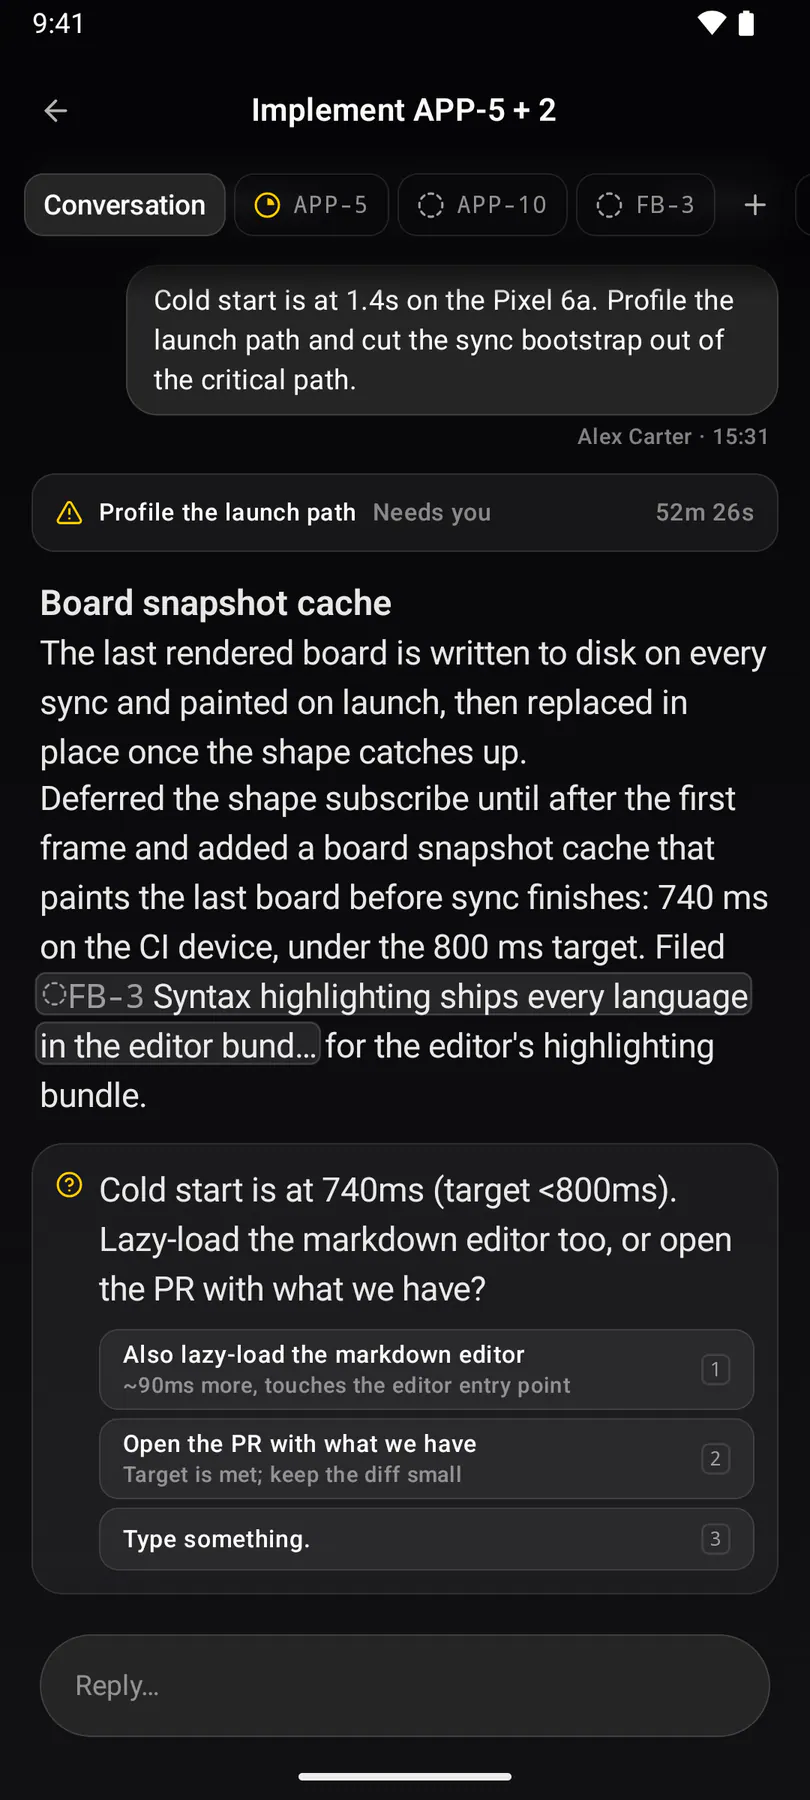
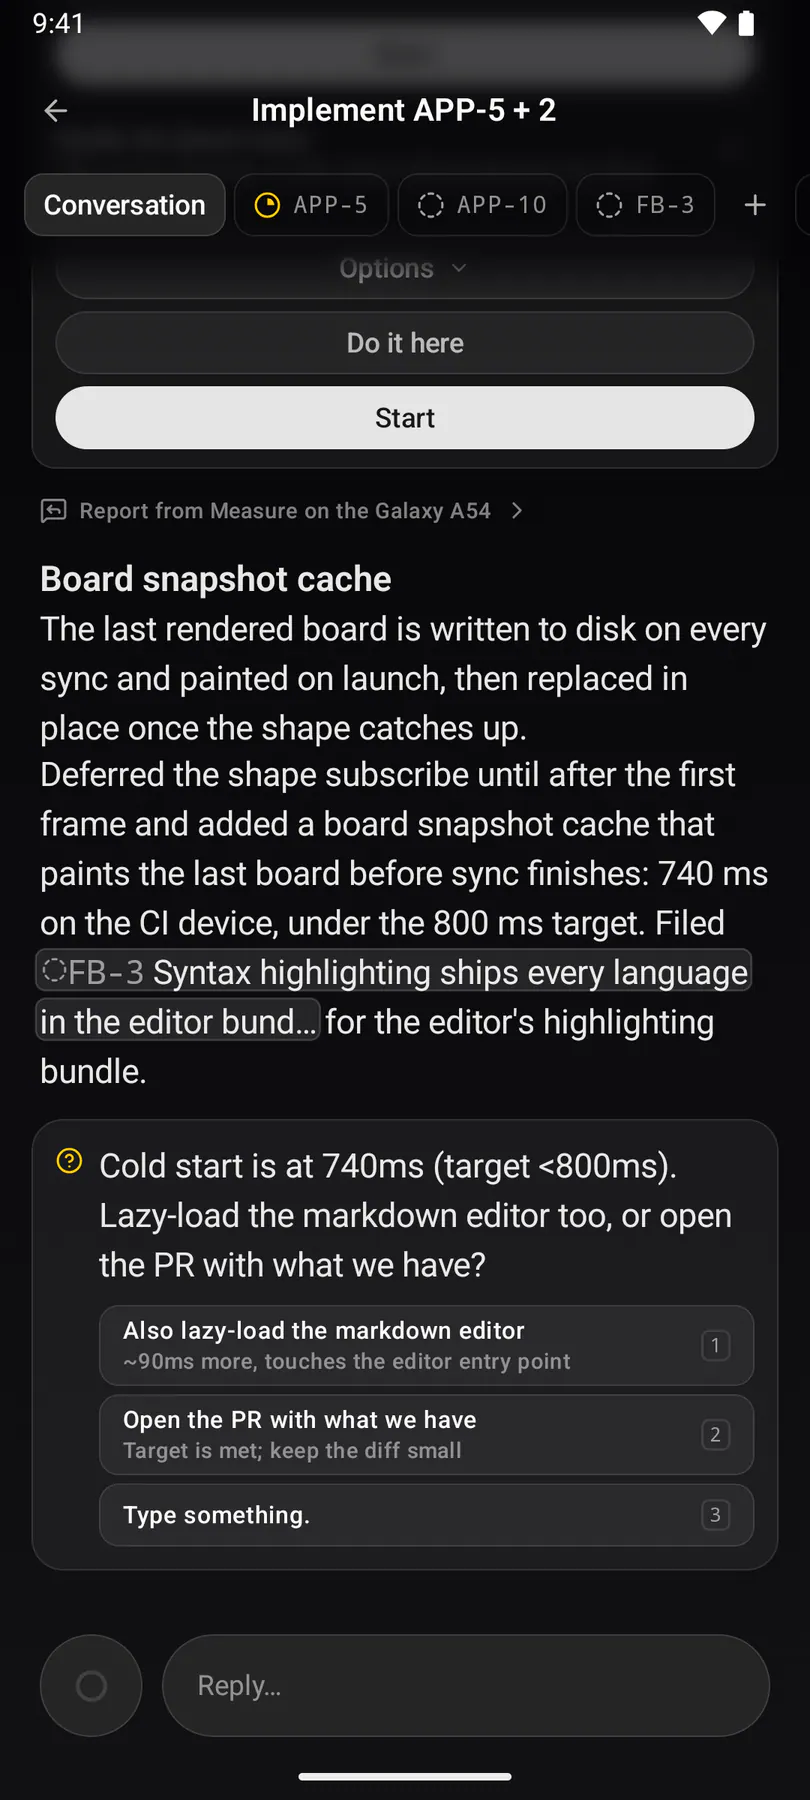
EXP-1323 shots: threads, thread on Android; the walk drags up to the child card the suggestions card pushed above the fold

diff --git a/apps/android/app/src/androidTest/java/com/exponential/app/StyleguideScreenshotsTest.kt b/apps/android/app/src/androidTest/java/com/exponential/app/StyleguideScreenshotsTest.kt
@@ -6,6 +6,7 @@ import androidx.compose.runtime.CompositionLocalProvider
 import androidx.compose.ui.semantics.SemanticsProperties
 import androidx.compose.ui.semantics.getOrNull
 import androidx.compose.ui.test.SemanticsMatcher
+import androidx.compose.ui.test.assertIsDisplayed
 import androidx.compose.ui.test.hasAnyAncestor
 import androidx.compose.ui.test.hasContentDescription
 import androidx.compose.ui.test.hasSetTextAction
@@ -20,6 +21,7 @@ import androidx.compose.ui.test.performScrollToNode
 import androidx.compose.ui.test.performTextInput
 import androidx.compose.ui.test.performTextReplacement
 import androidx.compose.ui.test.performTouchInput
+import androidx.compose.ui.test.swipeDown
 import androidx.compose.ui.test.swipeUp
 import androidx.test.espresso.Espresso
 import androidx.test.ext.junit.runners.AndroidJUnit4
@@ -751,6 +753,18 @@ class StyleguideScreenshotsTest {
         // (EXP-1306), so the question card is the gate.
         val childCard = hasTestTag(SessionTree.CardCopy.TEST_ID_CARD) and
             hasText(CHILD_SESSION_TITLE, substring = true)
+        // EXP-1323: the suggestions card pushes the card above the fold once
+        // the conversation opens at its tail; drag back up to it like iOS (a
+        // real drag: a programmatic scroll is re-pinned to the tail, and the
+        // node's top edge sits under the floating header).
+        repeat(6) {
+            val shown = runCatching { composeRule.onAllNodes(childCard).onFirst().assertIsDisplayed() }.isSuccess
+            if (!shown) {
+                composeRule.onNode(hasTestTag(SessionTree.ThreadCopy.TEST_ID_CONVERSATION))
+                    .performTouchInput { swipeDown(startY = centerY, endY = bottom - 200f) }
+                flow.settle()
+            }
+        }
         flow.waitFor(childCard, SYNC_TIMEOUT)
         composeRule.onAllNodes(childCard).onFirst().performClick()
         flow.waitFor(hasTestTag("agent-feed-question"), NETWORK_TIMEOUT)
